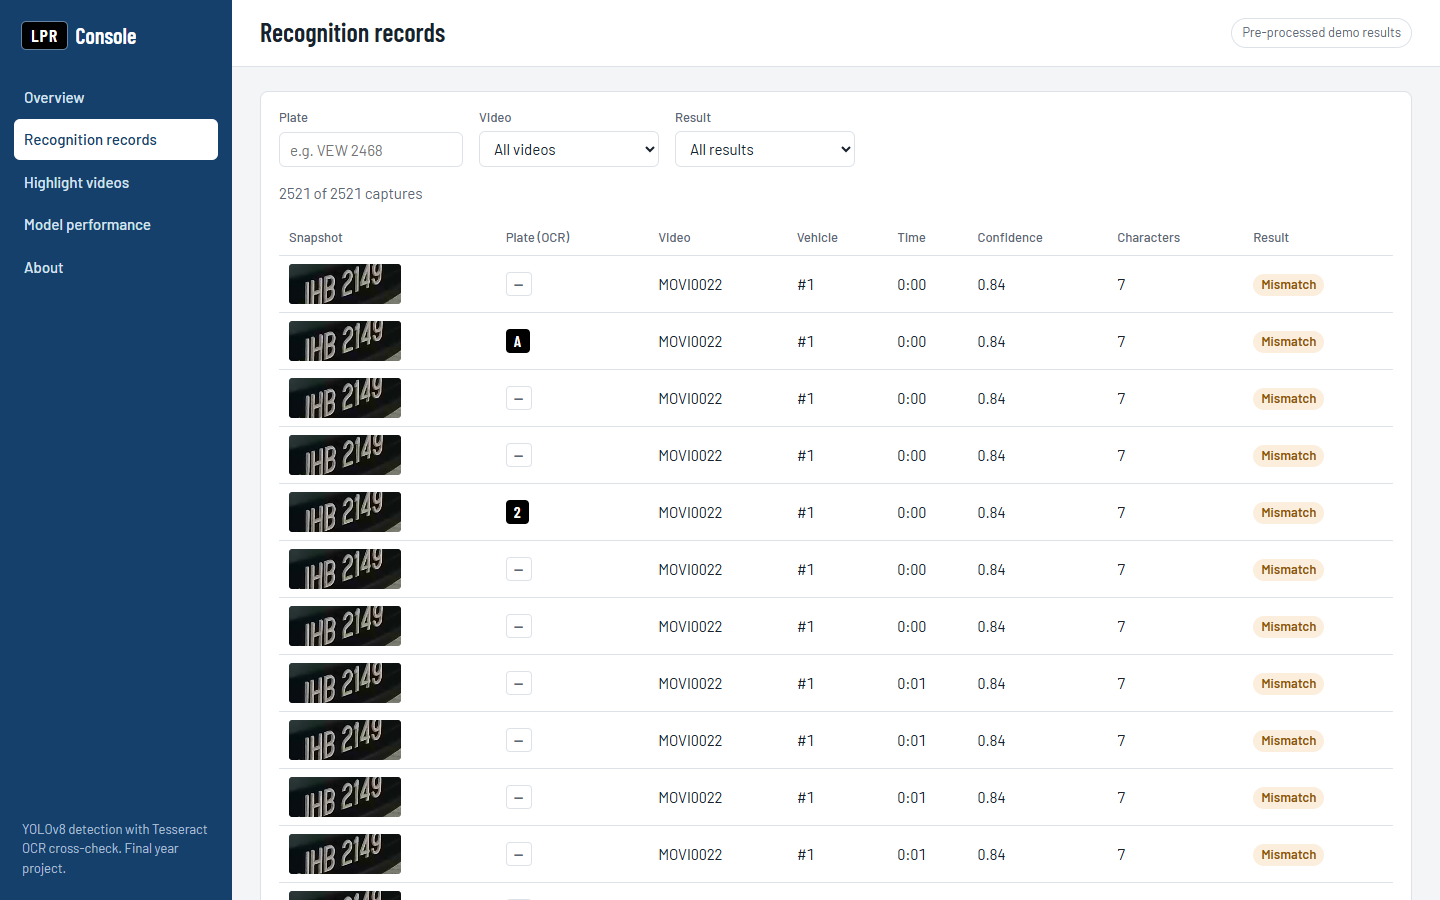
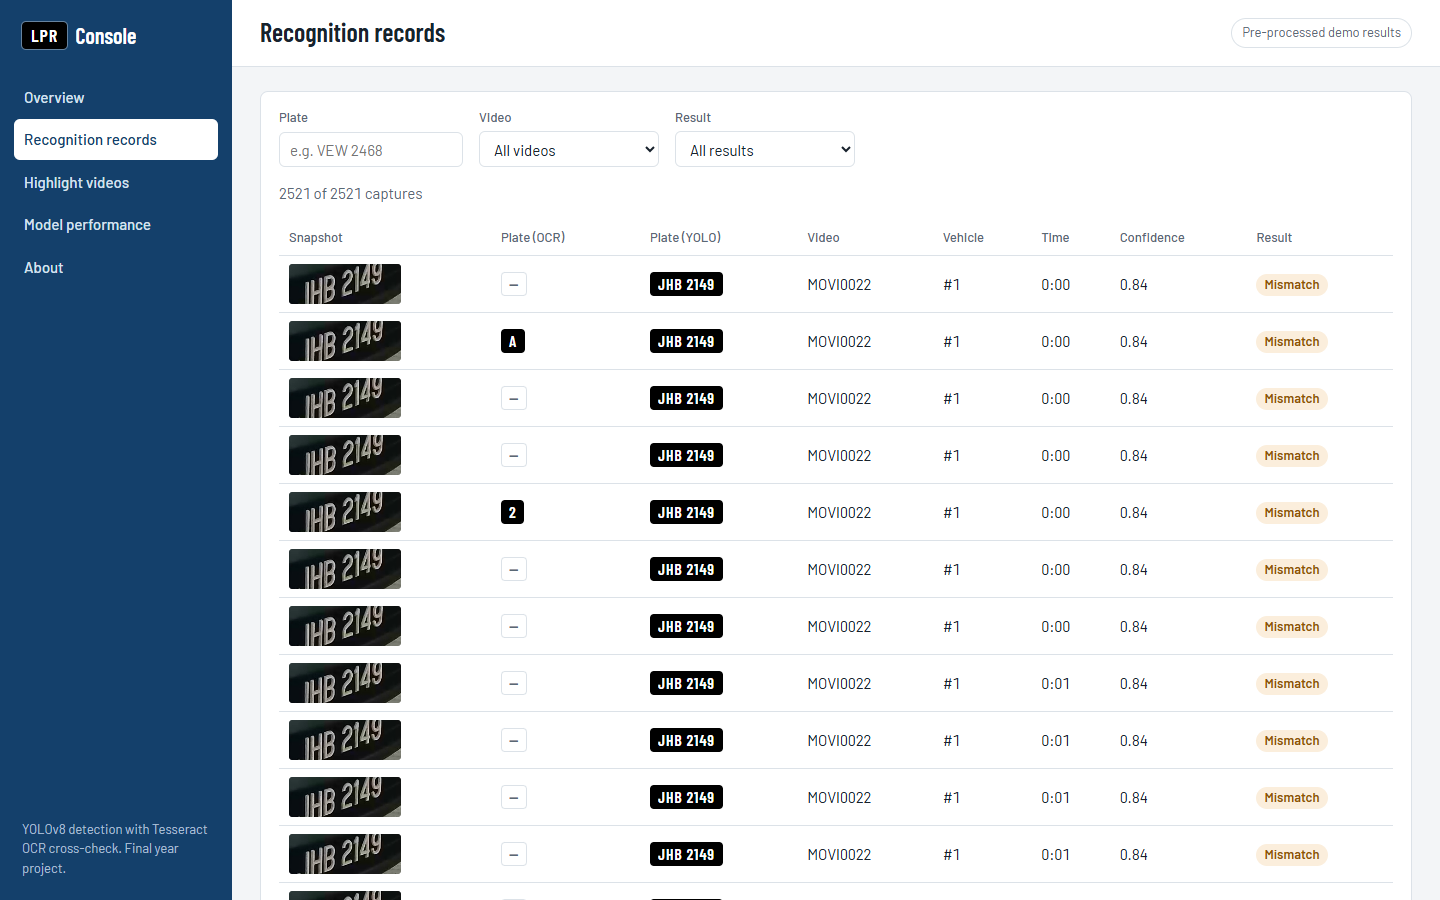
Show the YOLO reading next to the OCR reading in the records table
The Characters count column is replaced by the characters themselves, so
each row shows both readings the cross-check compares.

diff --git a/web/js/pages/records.js b/web/js/pages/records.js
@@ -23,7 +23,7 @@ export function render(root, { records, summary }, params) {
       <p class="muted" aria-live="polite" id="rec-count"></p>
       <div class="table-wrap">
         <table class="records">
-          <thead><tr><th>Snapshot</th><th>Plate (OCR)</th><th>Video</th><th>Vehicle</th><th>Time</th><th>Confidence</th><th>Characters</th><th>Result</th></tr></thead>
+          <thead><tr><th>Snapshot</th><th>Plate (OCR)</th><th>Plate (YOLO)</th><th>Video</th><th>Vehicle</th><th>Time</th><th>Confidence</th><th>Result</th></tr></thead>
           <tbody></tbody>
         </table>
       </div>
@@ -50,11 +50,11 @@ export function render(root, { records, summary }, params) {
       <tr tabindex="0" data-id="${esc(r.id)}" aria-label="Open capture ${esc(r.plate || "with no OCR text")}">
         <td><img src="${esc(r.crop)}" alt="" loading="lazy"></td>
         <td>${plateChip(r.plate)}</td>
+        <td>${plateChip(r.yolo_chars.join(""), "YOLO")}</td>
         <td>${esc(r.video)}</td>
         <td>#${r.car_id}</td>
         <td>${formatTime(r.time_s)}</td>
         <td>${r.score.toFixed(2)}</td>
-        <td>${r.n_chars}</td>
         <td>${resultTag(r)}</td>
       </tr>`).join("");
     pager.querySelector("span").textContent = `Page ${state.page + 1} of ${pages}`;

diff --git a/web/js/ui.js b/web/js/ui.js
@@ -5,10 +5,10 @@ const ENTITIES = { "&": "&amp;", "<": "&lt;", ">": "&gt;", '"': "&quot;", "'": "
 export const esc = (s) => String(s ?? "").replace(/[&<>"']/g, (c) => ENTITIES[c]);
 
 /** Malaysian-style plate: white characters on black. */
-export function plateChip(plate) {
+export function plateChip(plate, reader = "OCR") {
   return plate
     ? `<span class="plate">${esc(formatPlate(plate))}</span>`
-    : `<span class="plate plate-empty" title="OCR read no characters">${DASH}</span>`;
+    : `<span class="plate plate-empty" title="${reader} read no characters">${DASH}</span>`;
 }
 
 // Mirrors the CSS tokens in css/app.css.
